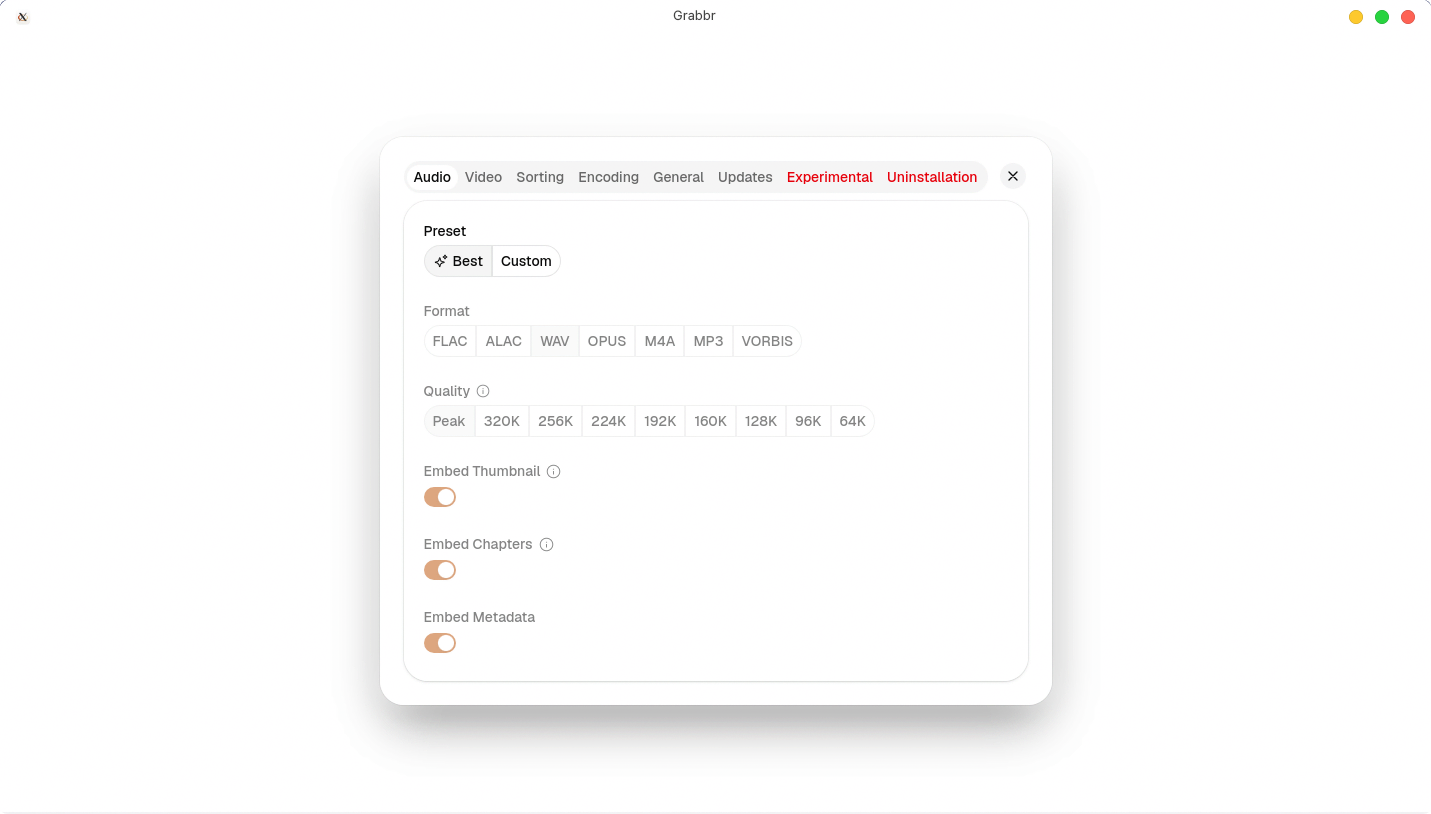
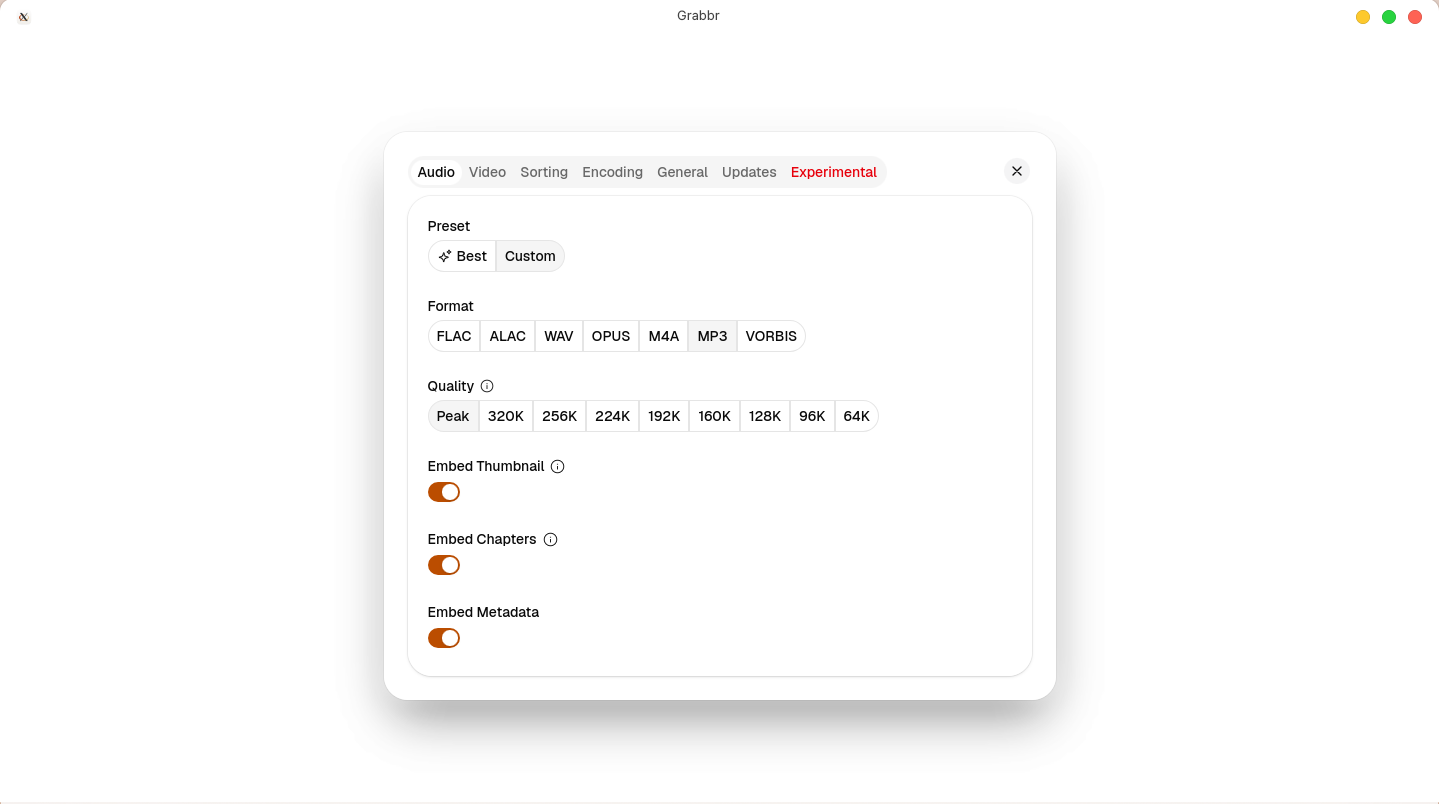
fix the issue where app goes in not responding state

diff --git a/apps/desktop/src/lib/single-instance.ts b/apps/desktop/src/lib/single-instance.ts
@@ -1,10 +1,9 @@
-import { mkdirSync, readFileSync, rmSync, writeFileSync } from "fs";
+import { existsSync, readFileSync, rmSync, writeFileSync } from "fs";
 import { join } from "path";
 
 import { Utils } from "electrobun/bun";
 
-const lockDir = join(Utils.paths.userData, "single-instance.lock");
-const pidFile = join(lockDir, "pid");
+const lockFile = join(Utils.paths.userData, "single-instance.lock");
 
 const isProcessAlive = (pid: number) => {
   try {
@@ -17,47 +16,25 @@ const isProcessAlive = (pid: number) => {
 
 export const cleanupLock = () => {
   try {
-    const pid = Number(readFileSync(pidFile, "utf8"));
-
+    const pid = Number(readFileSync(lockFile, "utf8"));
     if (pid === process.pid) {
-      rmSync(lockDir, { recursive: true, force: true });
+      rmSync(lockFile, { force: true });
     }
   } catch {}
 };
 
 export const enforceSingleInstance = () => {
-  try {
-    // Atomic: only one process can create this directory.
-    mkdirSync(lockDir);
-    writeFileSync(pidFile, String(process.pid));
-  } catch {
-    // Someone already created the lock.
+  if (existsSync(lockFile)) {
     try {
-      const pid = Number(readFileSync(pidFile, "utf8"));
-
+      const pid = Number(readFileSync(lockFile, "utf8"));
       if (Number.isFinite(pid) && isProcessAlive(pid)) {
         process.exit(0);
       }
-    } catch {
-      // stale/invalid lock; remove and try once more
-      rmSync(lockDir, { recursive: true, force: true });
-      try {
-        mkdirSync(lockDir);
-        writeFileSync(pidFile, String(process.pid));
-      } catch {
-        process.exit(0);
-      }
-    }
+    } catch {}
+    rmSync(lockFile, { force: true });
   }
 
-  // Fallbacks for process termination.
+  writeFileSync(lockFile, String(process.pid));
+
   process.on("exit", cleanupLock);
-  process.on("SIGINT", () => {
-    cleanupLock();
-    process.exit(0);
-  });
-  process.on("SIGTERM", () => {
-    cleanupLock();
-    process.exit(0);
-  });
 };

diff --git a/apps/web/src/lib/components/footer.svelte b/apps/web/src/lib/components/footer.svelte
@@ -12,8 +12,8 @@
     <HugeiconsIcon icon={Download01Icon} strokeWidth={2} class="size-12" />
     <span class="heading">Ready to try Grabbr?</span>
     <p class="content max-w-2xl text-center text-balance">
-      Grabbr is free, open source, and always will be. Download once, use forever. No subscriptions,
-      no accounts, no nonsense.
+      Grabbr is free and open source. Download once, use forever. No subscriptions, no accounts, no
+      nonsense.
     </p>
     <div class="flex flex-col items-center -space-y-5">
       <Download />

diff --git a/apps/desktop/electrobun.config.ts b/apps/desktop/electrobun.config.ts
@@ -10,7 +10,7 @@ export default {
     name: "Grabbr",
     description: "Multimedia Downloader",
     identifier: "grabbr",
-    version: "0.2.0-beta.0",
+    version: "0.2.1",
   },
   runtime: {
     exitOnLastWindowClosed: true,

diff --git a/apps/desktop/src/index.ts b/apps/desktop/src/index.ts
@@ -41,7 +41,7 @@ if (channel !== "dev") {
 Electrobun.events.on("before-quit", () => {
   for (const [, proc] of activeDownloadProcesses) {
     try {
-      proc.kill("SIGTERM");
+      proc.kill("SIGKILL");
     } catch (error) {
       console.error(error);
     }

diff --git a/apps/web/src/lib/components/features-1.svelte b/apps/web/src/lib/components/features-1.svelte
@@ -43,6 +43,6 @@
     </p>
   </div>
   <div class="ml-auto w-[150%] pl-2 md:w-full md:pl-0 xl:col-span-2">
-    <Image src="screenshots/audio-tab.png" class="screenshot" />
+    <Image src="/screenshots/audio-tab.png" class="screenshot" />
   </div>
 </section>

diff --git a/apps/web/src/lib/components/header.svelte b/apps/web/src/lib/components/header.svelte
@@ -16,7 +16,7 @@
   ></div>
 
   <a href="/" class="inline-flex items-center gap-2.5">
-    <Image src="favicon.png" width={32} height={32} />
+    <Image src="/favicon.png" width={32} height={32} />
     <h1 class="text-2xl font-medium tracking-tight">Grabbr</h1>
   </a>
   <div class="md:hidden">

diff --git a/apps/web/src/lib/components/main.svelte b/apps/web/src/lib/components/main.svelte
@@ -5,7 +5,7 @@
 </script>
 
 <section class="flex flex-col items-center gap-4">
-  <Image src="favicon.png" class="size-12" />
+  <Image src="/favicon.png" class="size-12" />
   <h2 class="heading mb-2 max-w-2xl text-center">
     One downloader. Every format. YouTube, Instagram, and more soon.
   </h2>